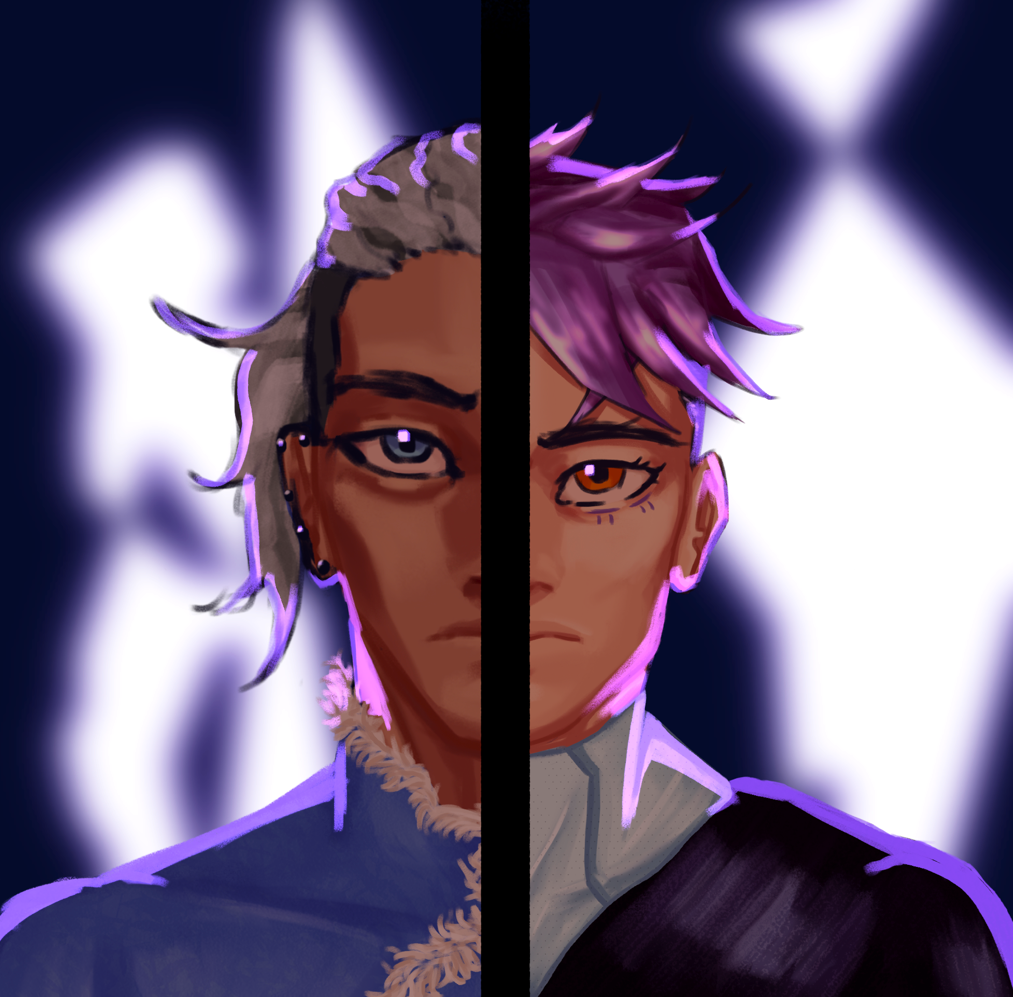
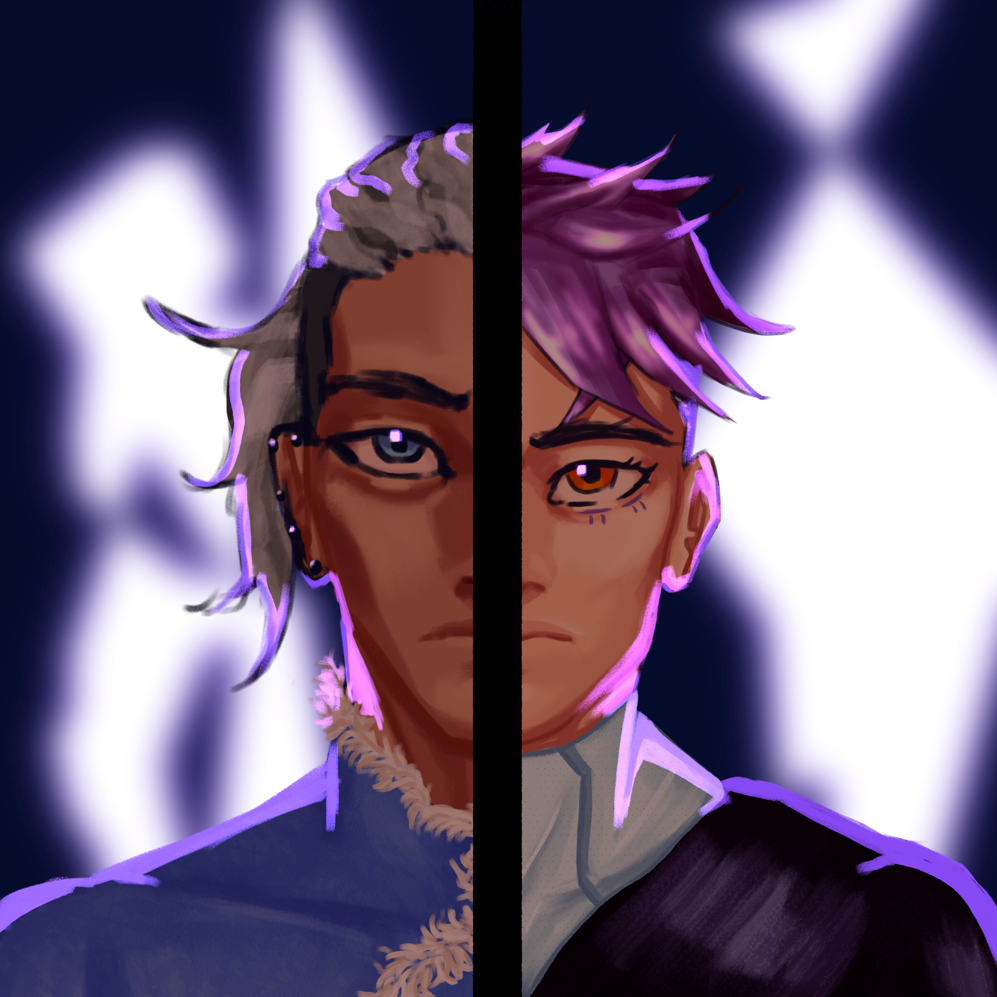
fixed sizing and removed shader from homepage for now

diff --git a/index.html b/index.html
@@ -39,11 +39,6 @@
             <h3>Addicted To Laughter</h3>
             <h4>A top down survival game where happiness is the only thing keeping you alive!</h4>
         </project>
-        <project onclick="location.href='/Projects/SpiderVerseShader'">
-            <img src="Images/SpiderVerseShaderBanner.png" alt="Spider Verse Shader Banner" class="small-image">
-            <h3>Spider-Verse Shader</h3>
-            <h4>A shader created using C++ and OpenGL to replicate the visual style of Spider-Man: Into the Spider-Verse (2018).</h4>
-        </project>
     </div>
   </main>
 </body>

diff --git a/style.css b/style.css
@@ -11,7 +11,7 @@
     display: flex;
     flex-direction: column;
     text-align: center;
-    justify-content: center;
+    justify-content: space-between;
     width:min-content;
     background-color: rgb(23, 23, 23);
     border-radius: 5%;
@@ -25,8 +25,8 @@
 .small-image{
     margin-top: 0%;
     display: flex;
-    width: 30rem;
-    height: 30rem;
+    width: 26rem;
+    height: 26rem;
     border-top-left-radius: 5%;
     border-top-right-radius: 5%;
     border-bottom-style: solid;
